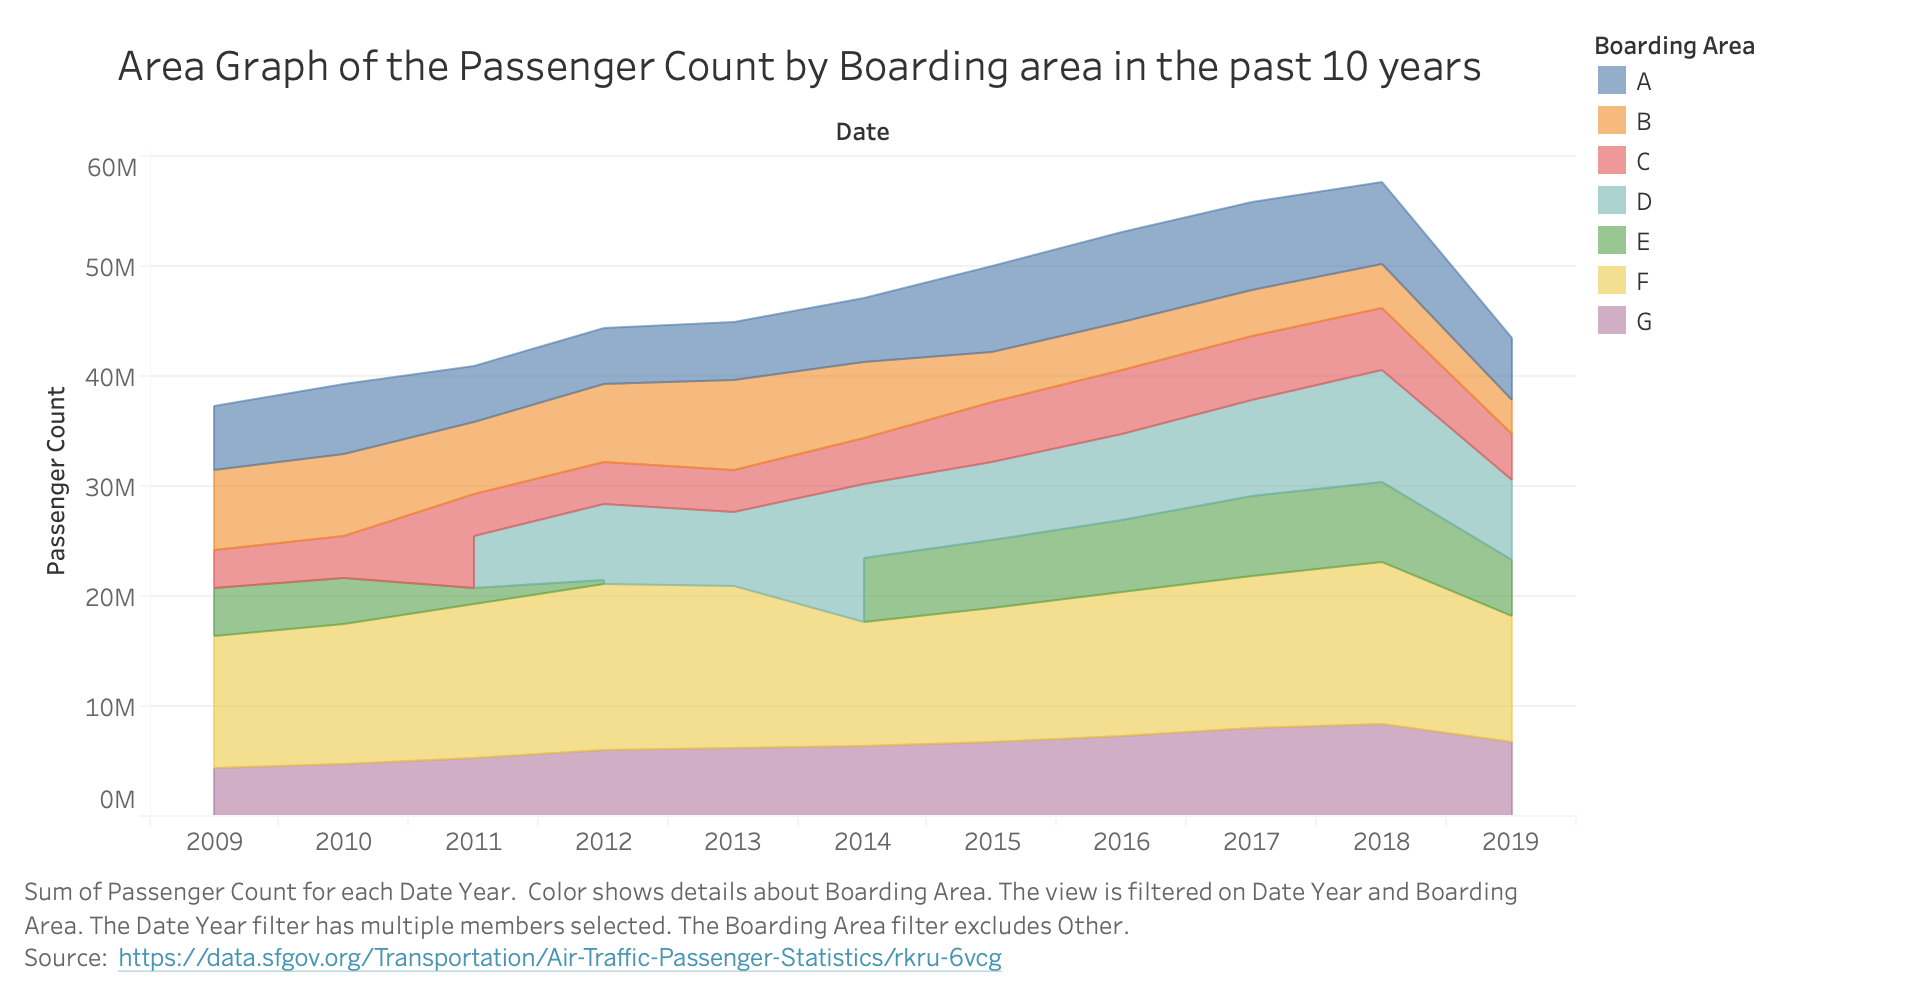
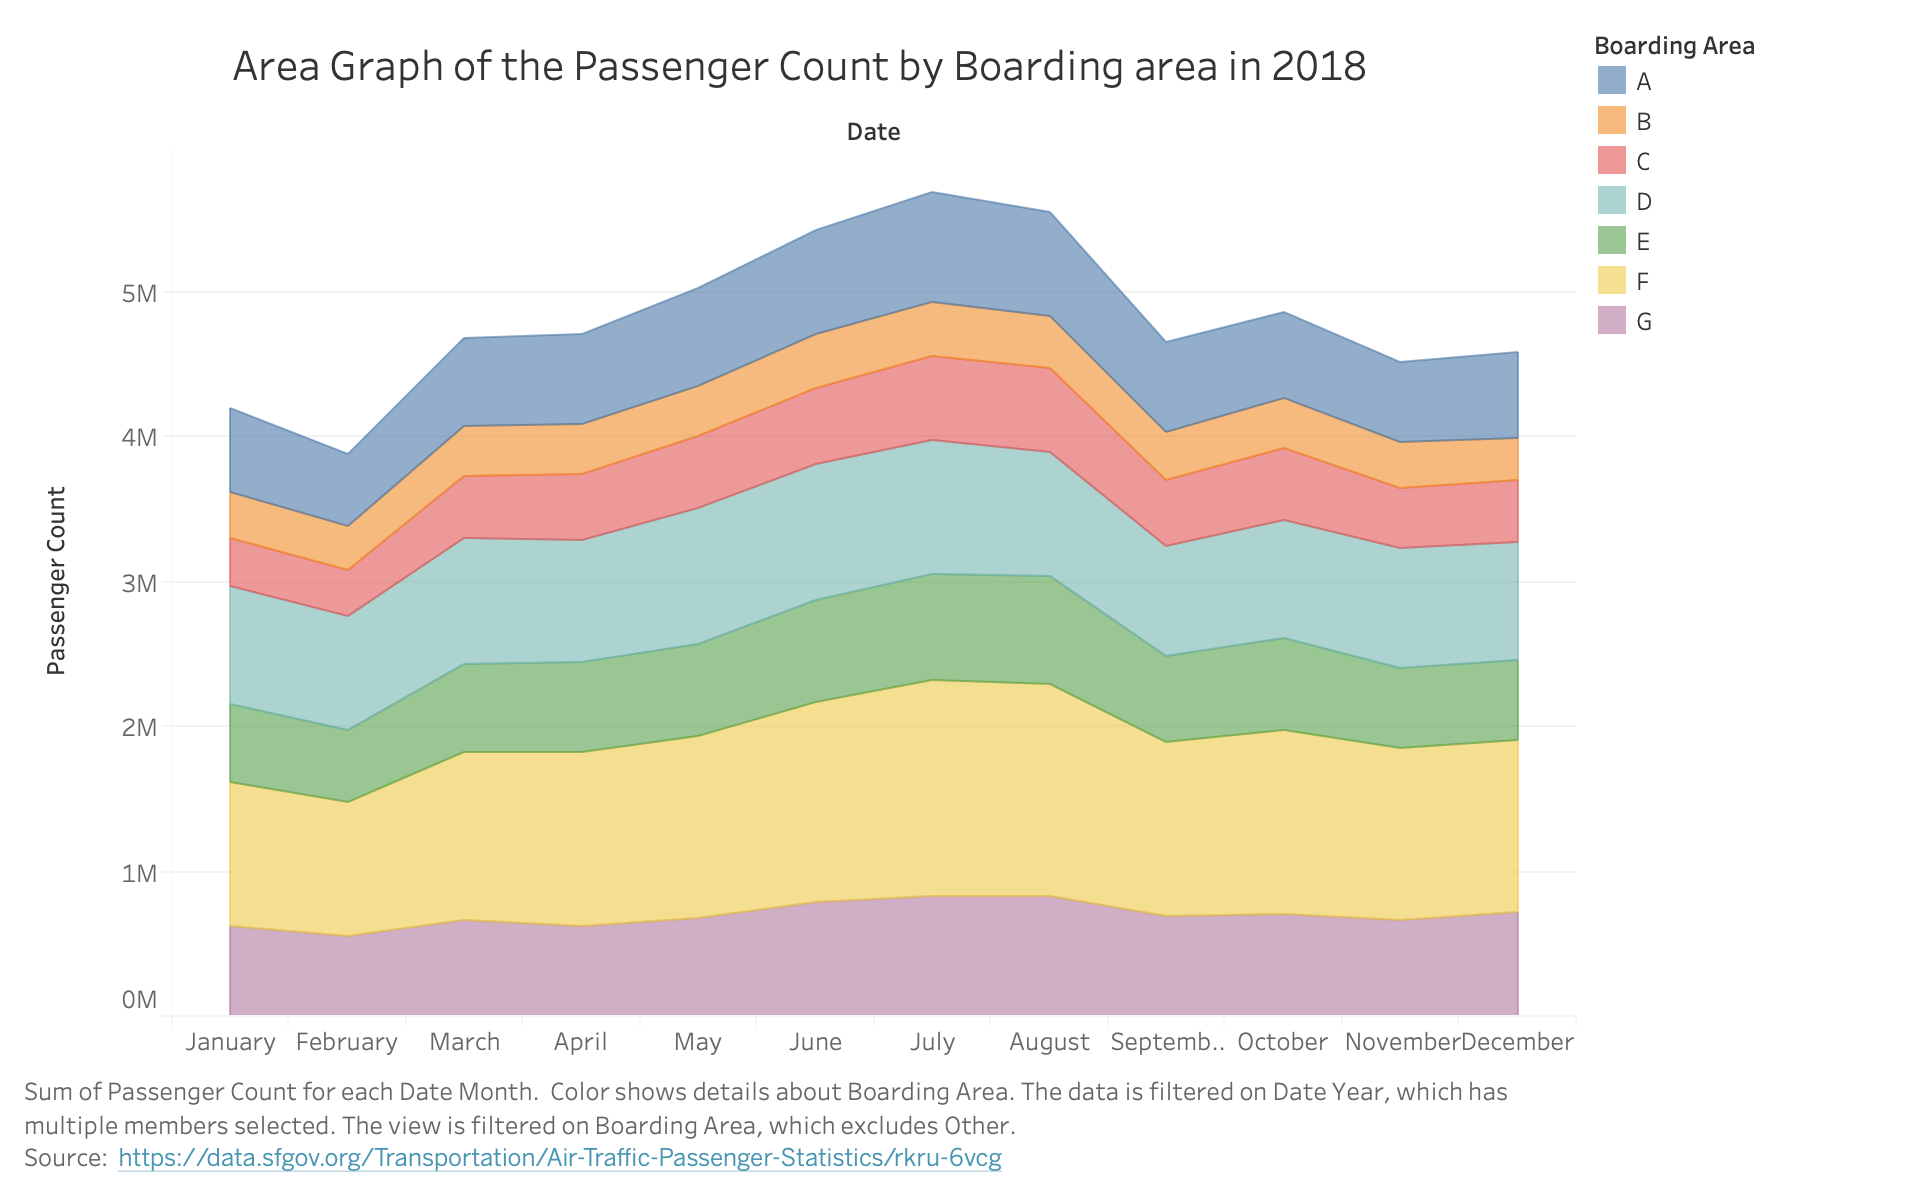
Final nearly

diff --git a/line.html b/line.html
@@ -38,6 +38,11 @@
   pointer-events: all;
 }
 
+.legend rect {
+  fill:white;
+  stroke:black;
+  opacity:0.8;}
+
 /* Style the dots by assigning a fill and stroke */
 
 
@@ -52,6 +57,8 @@ svg {
   <meta charset="utf-8">
   <link href="style.css" rel="stylesheet">
   <script src="https://d3js.org/d3.v5.min.js"></script>
+  <script src="d3.legend.js"></script>
+
   <title>Line</title>
 
   <!-- Load Bulma from CDN (consider saving it to repository instead) -->
@@ -76,14 +83,19 @@ svg {
   });
   </script>
 
-
-      <section class="section">
-        <div class="container">
-          <div class="content">
-            <h2>Passenger Count per year at SFO Line Graph</h2>
-            <p> The trend of sum of Passenger Count for Date Year.  Color shows details about Passenger Type. The view is filtered on Date ,Year, which includes dates on or after 2009. </p>
-            <p> Blue represents domestic passengers and Orange represents international passengers </p>
-            <svg id="line"></svg>
+  <section class="section">
+    <div class="container">
+      <div class="content has-text-centered">
+        <h1>Line Graph</h1>
+        <figure class="image is-1050x480">
+          <h3>This is the tableu prototype</h3>
+          <img src="line-graph-tableu.png">
+        </figure>
+        <h2>Passenger Count per year at SFO Line Graph</h2>
+        <p> The trend of sum of Passenger Count for Date Year.  Color shows details about Passenger Type. The view is filtered on Date ,Year, which includes dates on or after 2009. </p>
+        <p> Blue represents domestic passengers and Orange represents international passengers </p>
+        <svg id="line"></svg>
+</p>
 
 <script>
 
@@ -111,7 +123,7 @@ config.plot.y = config.margin.top;
 config.plot.width = config.svg.width - config.margin.left - config.margin.right;
 config.plot.height = config.svg.height - config.margin.top - config.margin.bottom;
 
-var margin = {top: 10, right: 20, bottom: 20, left: 80}
+var margin = {top: 10, right: 20, bottom: 60, left: 80}
   , width =960
   , height = 450
 
@@ -237,6 +249,40 @@ svg.selectAll(".dot")
             this.attr('class', 'focus')
     		})
           .on("mouseout", function() {  })
+
+// svg.append("g")
+//   .attr("class","legend")
+//   .attr("transform","translate(50,30)")
+//   .style("font-size","12px")
+//
+//   setTimeout(function() {
+//   legend
+//     .style("font-size","20px")
+//     .attr("data-style-padding",10)
+// },1000)
+
+
+const xmid = margin.left + midpoint(xScale.range());
+
+const ymid = margin.left + midpoint(yScale.range());
+
+const xtitle = svg.append('text')
+    .attr('class', 'axis-title')
+    .text('Years');
+
+xtitle.attr('x', xmid - 80);
+xtitle.attr('y', height +40);
+xtitle.attr('text-anchor', 'middle');
+
+const ytitle = svg.append('text')
+  .attr('class', 'axis-title')
+  .text('Number of Passengers')
+  ytitle.attr('y', ymid - 370);
+  ytitle.attr('x', -230);
+  ytitle.attr('dy', '1.75ex');
+  ytitle.attr('text-anchor', 'middle');
+  ytitle.attr('transform', 'rotate(-90)');
+
 }
 
 function drawSecondary(data) {
@@ -296,7 +342,27 @@ function translate(x, y) {
   return 'translate(' + x + ',' + y + ')';
 }
 
+function midpoint(range) {
+    //change this later
+    return range[0] + (range[1] - range[0]) / 2.0;
+  }
+
 </script>
+
+<h3>Analysis</h3>
+<p2> This graph is very intersting, since it is a line graph of the total number of passengers that go throuhgh the SFO airport in the last 10 years. It is clear that I had to seperate the domestic and international passengers, since there was
+  originally a big drop from 2018-2019 and decided to investigate what caused the passenger dip, hence why the difference between the domestic and international passengers.
+
+  I had to do wrangling with the data by converting to the year time format, and also restricting the data from only the past 10 years, using methods in tableu.
+
+  In terms of the acutal data, I ended up going over a longer time frame, so that I could see the growth of the Airport, since the amount of traffic would affect the total revenue the Airport recieves.
+
+  Overall, this was a line graph analyzing the foot traffic in the airport, and it shows that there has been a lot of growth, and the expansion of the AirTrain and the new hotel has been beneficial.
+
+  It is clear, that the SFO airport has seen a slow and constant growth over time, especially in domestic traffic, but not so much in international traffic. 
+</div>
+
+
 </div>
 </div>
   </section>

diff --git a/bar.html b/bar.html
@@ -54,7 +54,8 @@ svg {
             <h3>This is the D3 Implementation</h3>
             <h4>Bar Graph of 2019 Pasenger Data by Country</h4>
             <svg id="bar"></svg>
-            <p> Sum of Passenger Count for each Registered Country.  Color shows details about Registered Country.  Details are shown for Date Year. The view is filtered on Date Year, which ranges from 2019 to 2019. </p>
+            <p> Sum of Passenger Count for each Registered Country.  Color shows details about Registered Country.  Details are shown for Date Year. The view is filtered on Date Year, which ranges from 2019 to 2019.
+ </p>
 <script>
 
 // location of data files
@@ -81,7 +82,7 @@ config.plot.y = config.margin.top;
 config.plot.width = config.svg.width - config.margin.left - config.margin.right;
 config.plot.height = config.svg.height - config.margin.top - config.margin.bottom;
 
-var margin = {top: 10, right: 10, bottom: 20, left: 80}
+var margin = {top: 10, right: 10, bottom: 30, left: 80}
   , width =960
   , height = 450
 
@@ -153,7 +154,7 @@ function drawMain(data) {
   xScale.domain(dataset.map(function(d) { return d.x; }).sort());
 
 
-  yScale.domain([0,30000000]);
+  yScale.domain([0,4500000]);
 
 
 svg = d3.select("body").select("svg#bar")
@@ -169,7 +170,7 @@ svg.append("g")
 
 svg.append("g")
     .attr("class", "y axis")
-    .call(d3.axisLeft(yScale).ticks(10,"f").tickFormat(d3.formatPrefix(".0",1e6)));
+    .call(d3.axisLeft(yScale).ticks(10,"f").tickFormat(d3.formatPrefix(".0",1e5)));
 
 svg.selectAll(".bar")
     .data(dataset)
@@ -183,6 +184,27 @@ svg.selectAll(".bar")
         // color = ["ff0000"];
         // // return color[Math.floor(Math.random() * color.length)]});
         .attr()
+
+        // const xmid = margin.left + midpoint(xScale.range());
+        //
+        // const ymid = margin.left + midpoint(yScale.range());
+        //
+        // const xtitle = svg.append('text')
+        //     .attr('class', 'axis-title')
+        //     .text('Country');
+        //
+        // xtitle.attr('x', xmid);
+        // xtitle.attr('y', height);
+        // xtitle.attr('text-anchor', 'middle');
+        //
+        // const ytitle = svg.append('text')
+        //   .attr('class', 'axis-title')
+        //   .text('Number of Passengers')
+        //   ytitle.attr('y', ymid - 370);
+        //   ytitle.attr('x', -230);
+        //   ytitle.attr('dy', '1.75ex');
+        //   ytitle.attr('text-anchor', 'middle');
+        //   ytitle.attr('transform', 'rotate(-90)');
 }
 
 function translate(x, y) {
@@ -198,8 +220,18 @@ function translate(x, y) {
 <h3>Analysis</h3>
 <p2> This data showcases the raltionship between the passenger data and the country of the registered airline.
   The bars demonstatte the height of the number of passengers that are moving through the airport for the year of 2019.
-  This relationship is able to showcase the origin of the passengers, that are able
+  This relationship is able to showcase the origin of the passengers, since it is important to one to see the origin of passengers. I was intersted in this data since I wanted to see where the most
+  popular destinations are for those who go through the SFO airport.
 
+  I had to wrangle the data with Tableu in order to convert and modify the timeframe so that it would come out into the years.
+
+  The scaling of the bars was designed in mind originally in which I had the passengers coming into the United States,
+  however, I decided to not include that since it was obvious that they would be a majority, and it was unable to show the sizes of the bars of the other countries in a good manner. Now we can see, that as with the trends, that most of the
+  passengers end up from either Asia, or Europe. Canada also has a strong infulence, considering that they could be also considered as either transit or also tourist passengers, which would be looked into.
+
+  The passenger count is encoded by the length of the bar, so longer bars represent the higher passenger count.
+
+  Overall, this was a simple bar graph trying to showcase the trends of the countries that people end up flying from and it is clear that Europe and Asia are clear contenders as to where most of the traffic is coming from.
 </div>
 
 

diff --git a/area.html b/area.html
@@ -36,9 +36,21 @@
           <h3>This is the tableu prototype</h3>
           <img src="area-graph-tableu.png">
       </figure>
+      <h3>Analysis</h3>
       </div>
-      <!-- End page content -->
-    </div>
+                <p> This is simillar to the line graph, but rather than just looking at the past 10 years, I ended up looking at just the year of 2018, since 2019 did not have all the values in the current dataset.
+
+                  I had to do some data wrangling in Tableu where I had to restrict the dataset from only including values on 2018 and then converting the dates into months.
+
+                  The area chart has the multiple boarding areas labelled with different colors, and the sizes between the each area represent the number of people going through that specific area of the Airport.
+
+                  This was an intersting visualziation, since it showcases that a certain area of an airport is used a lot more than another, and since the airlines have the own zone, one can see that certain sectors have more load than another.
+
+                  One can conclude that during 2018, during the Summer that boarding area F has a lot more growth in terms of the area and amount than others, while area B is the most steady throughout.
+              </p>
+
+
+     </div>
   </section>
 
   <div id="footer">
